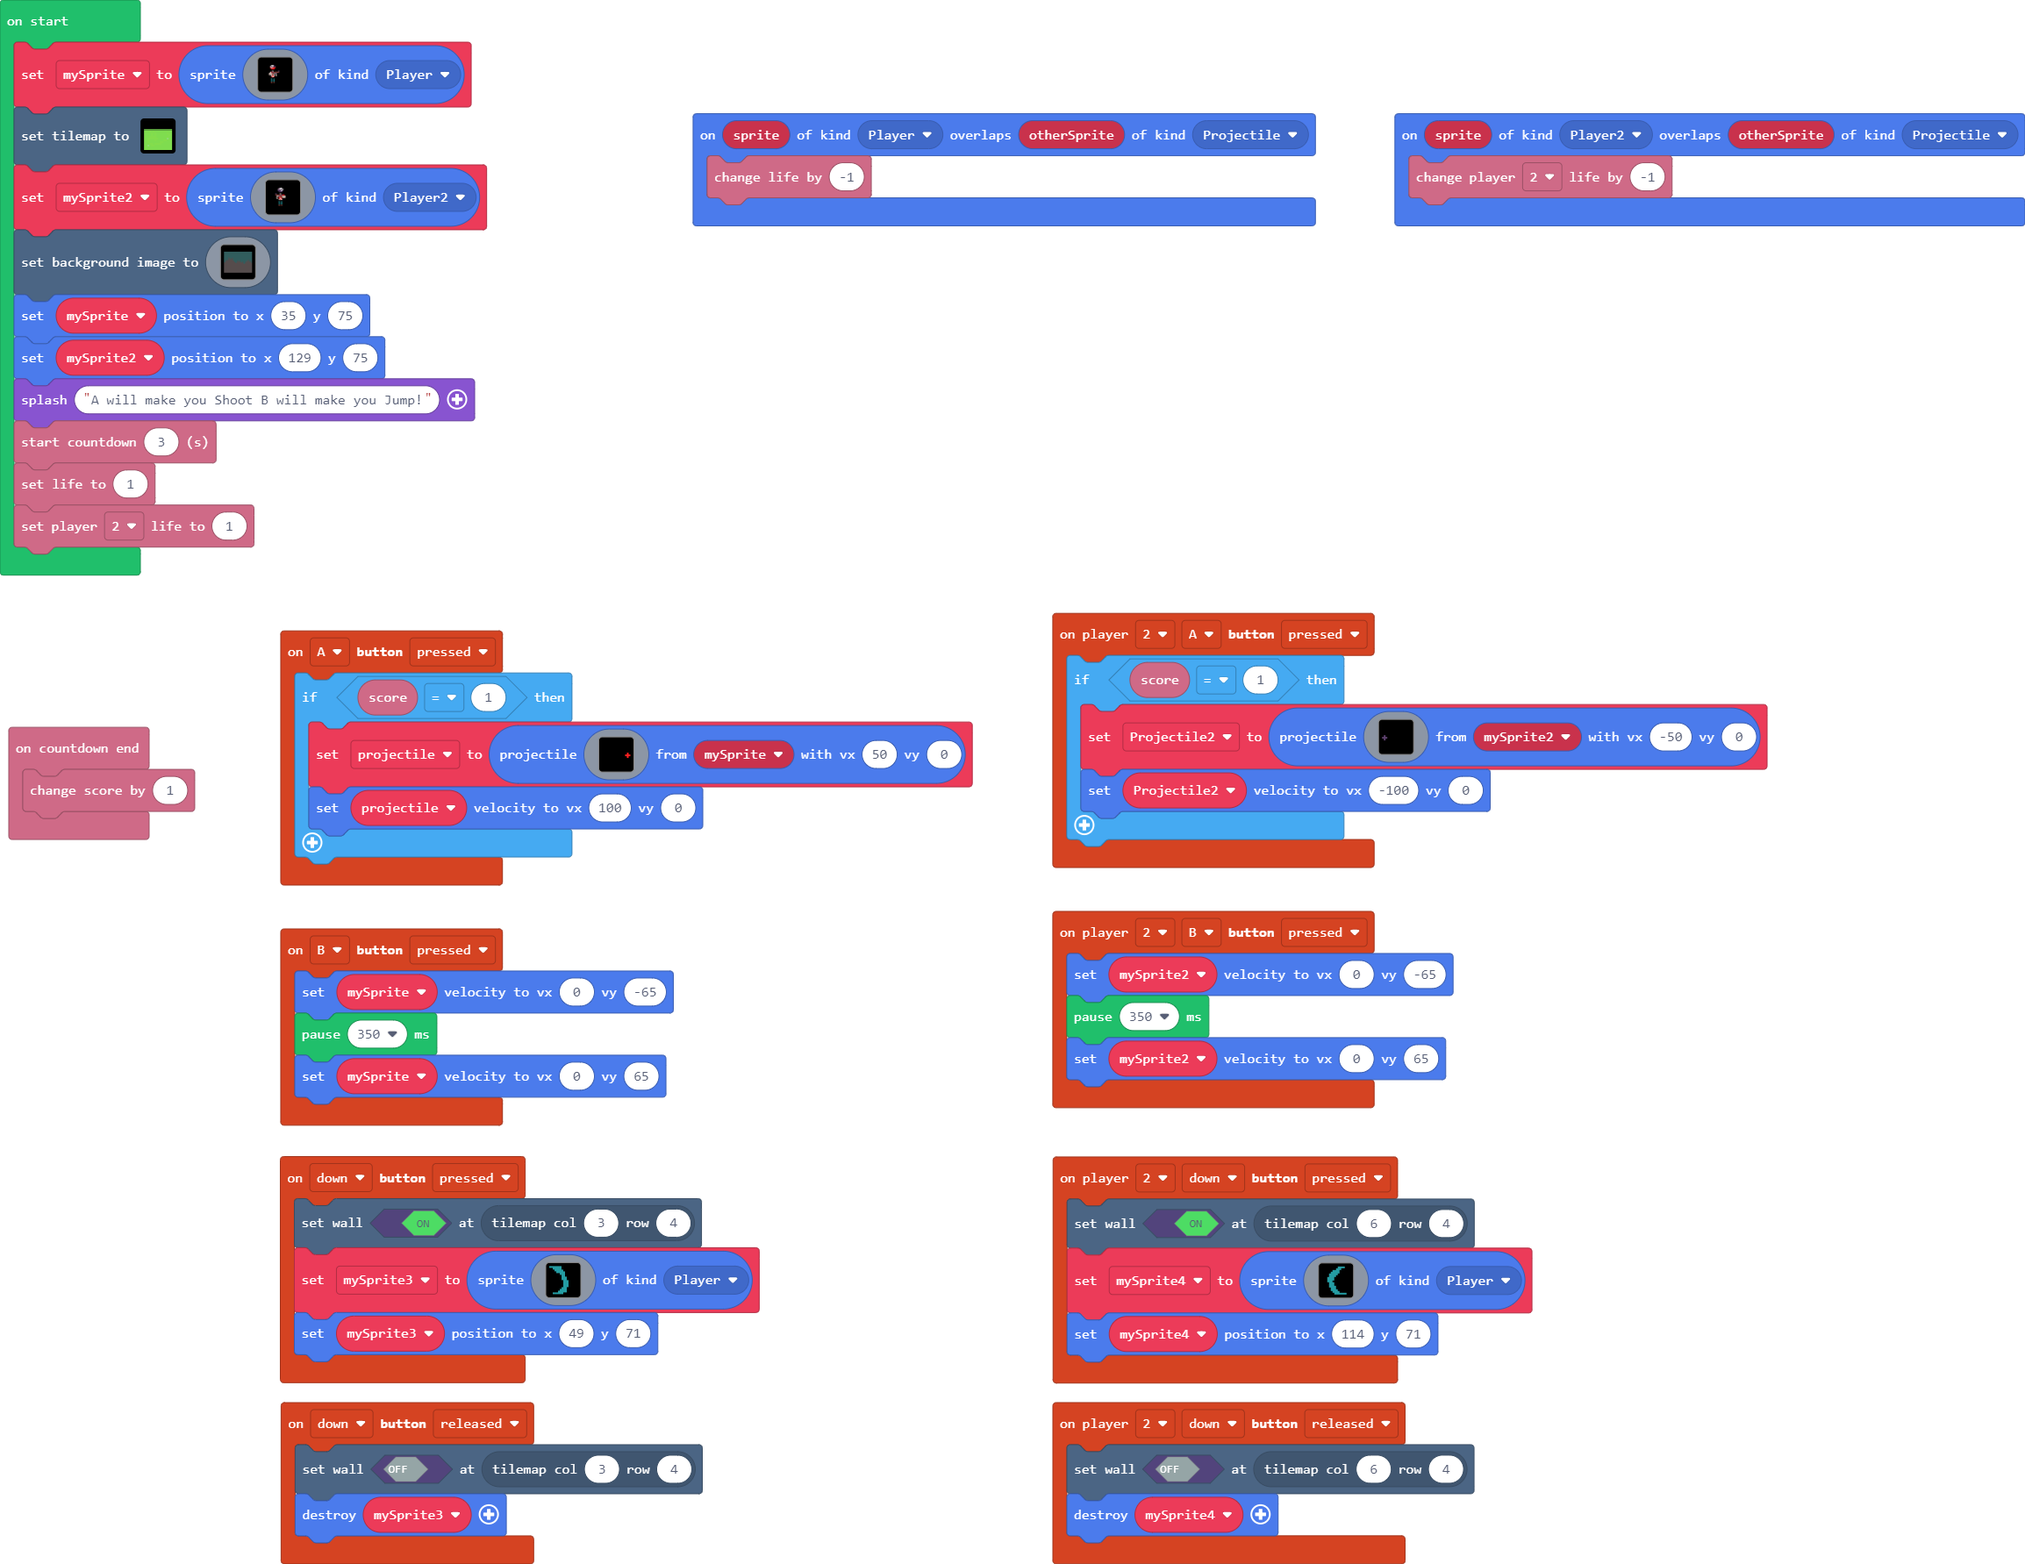
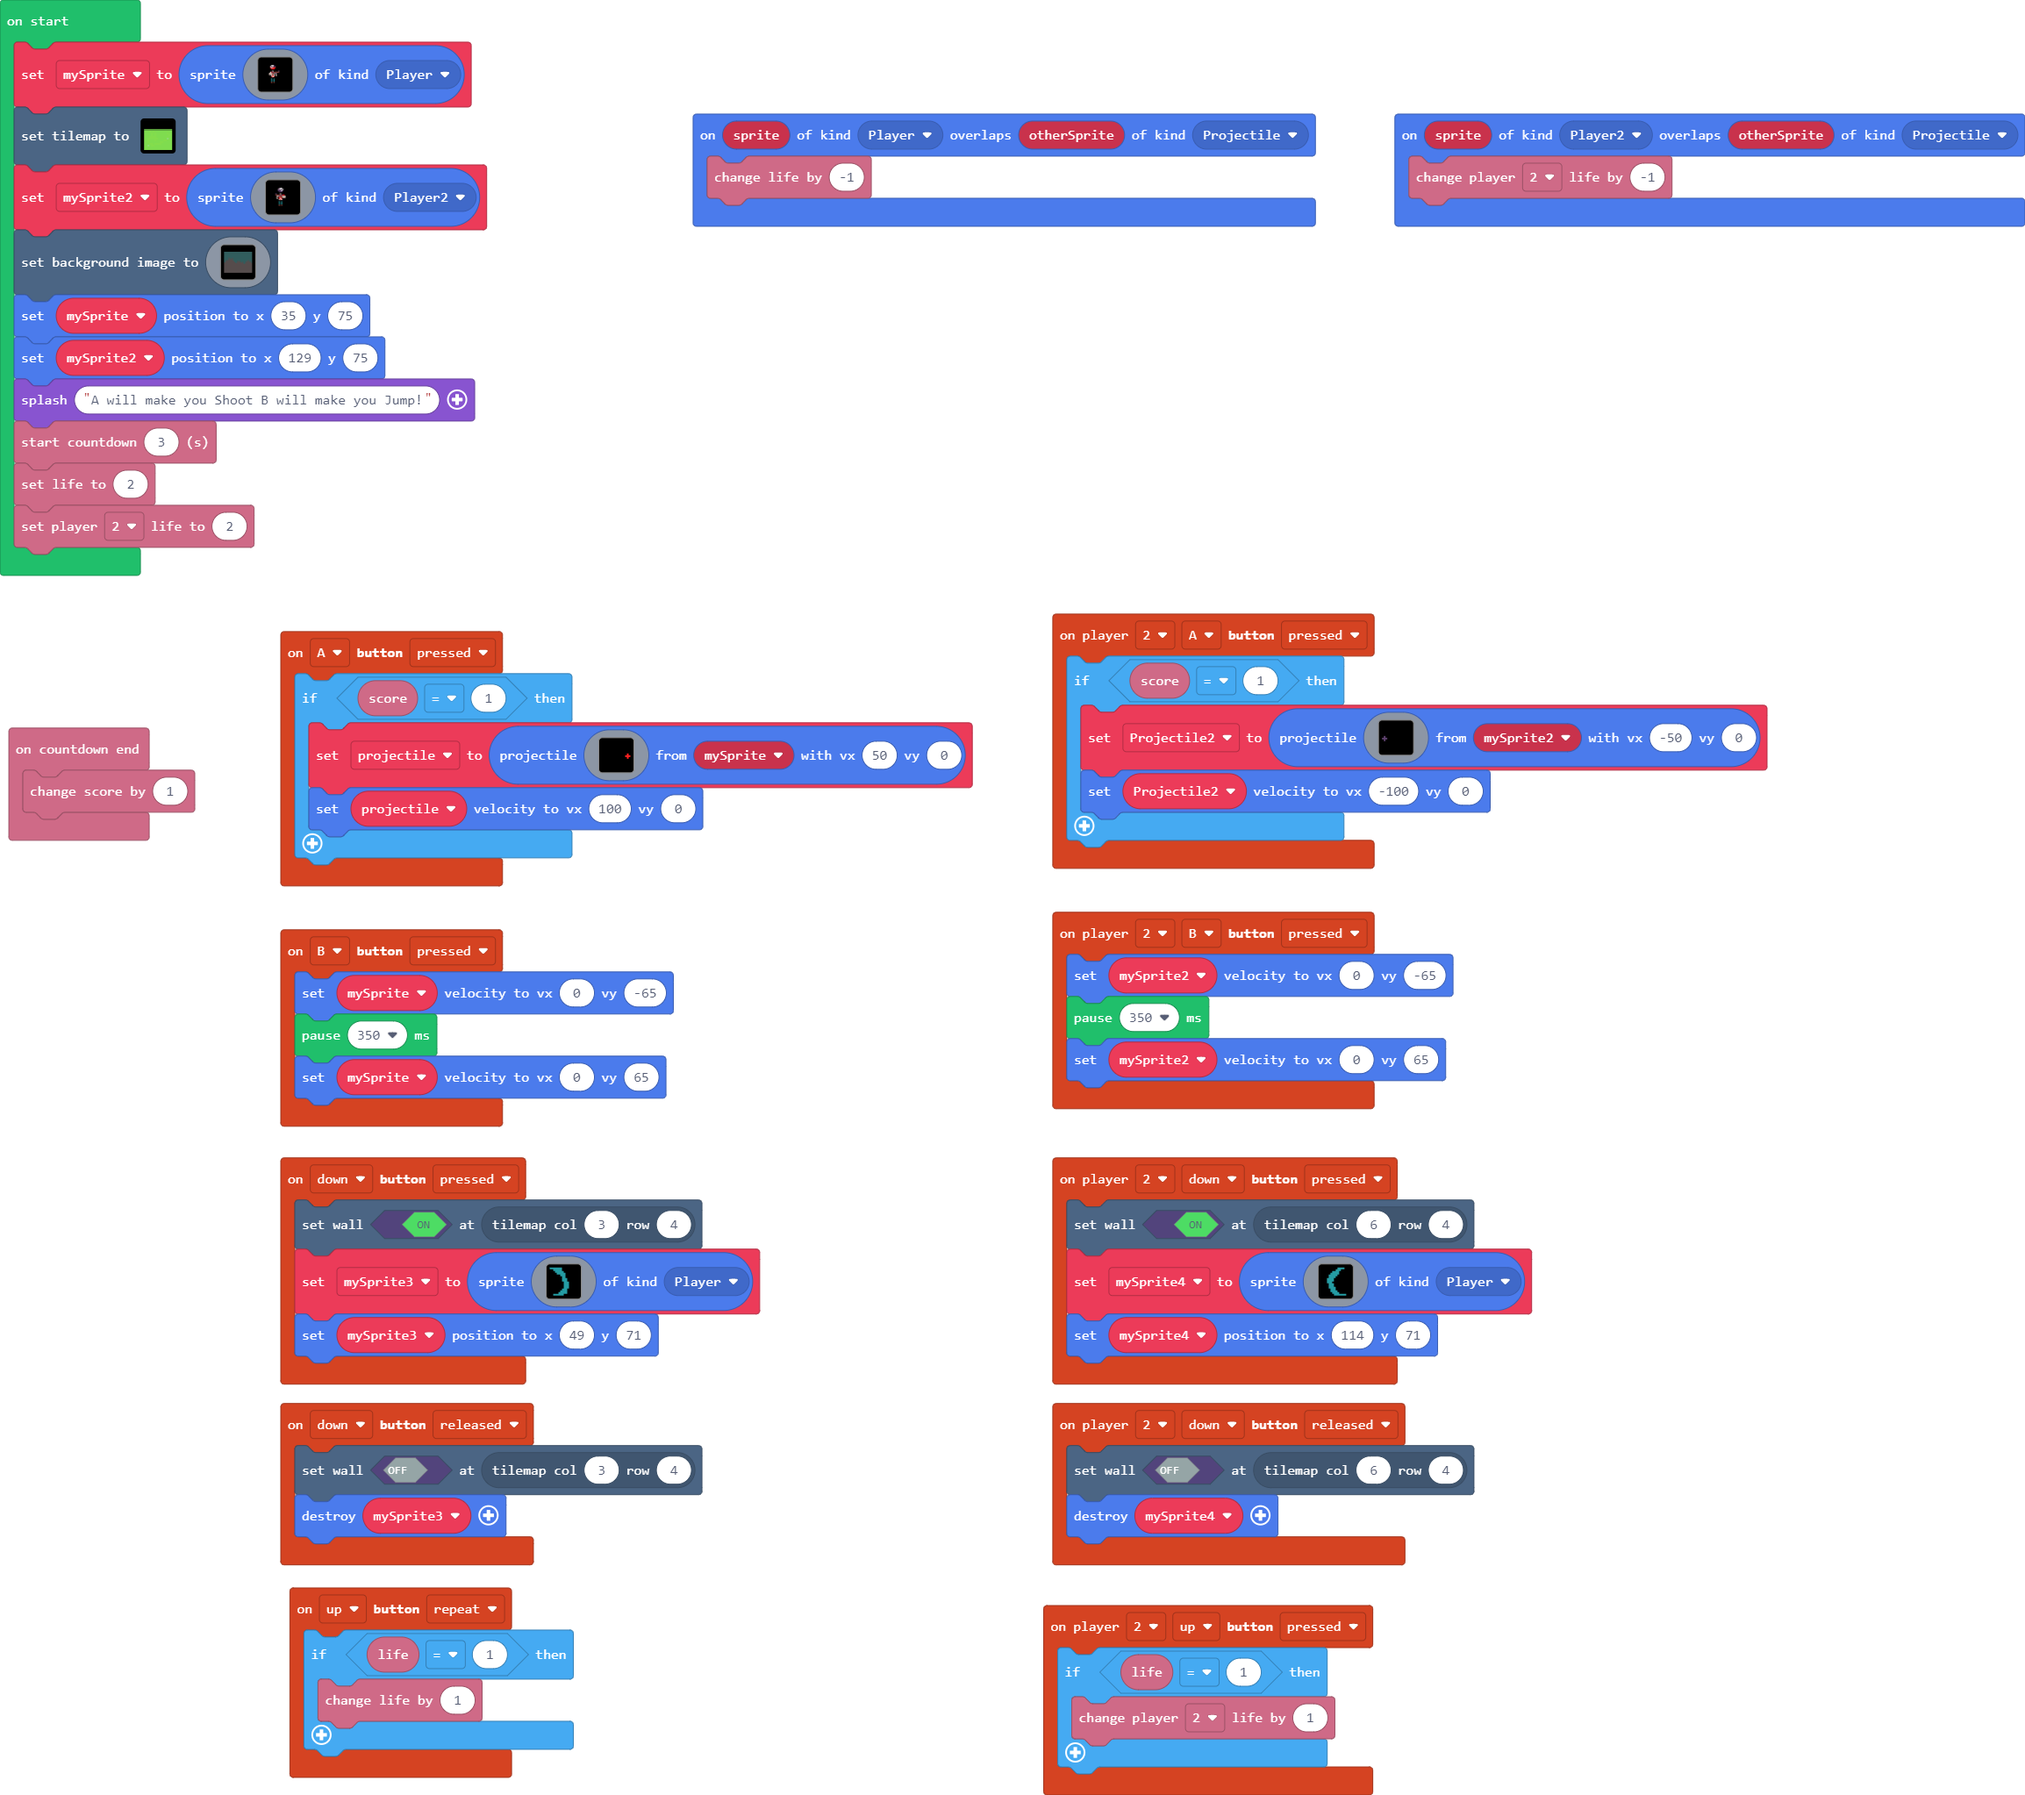
Update main.blocks, main.ts

diff --git a/main.ts b/main.ts
@@ -143,6 +143,11 @@ controller.A.onEvent(ControllerButtonEvent.Pressed, function () {
         projectile.setVelocity(100, 0)
     }
 })
+controller.player2.onButtonEvent(ControllerButton.Up, ControllerButtonEvent.Pressed, function () {
+    if (info.life() == 1) {
+        info.player2.changeLifeBy(1)
+    }
+})
 controller.player2.onButtonEvent(ControllerButton.B, ControllerButtonEvent.Pressed, function () {
     mySprite2.setVelocity(0, -65)
     pause(350)
@@ -150,6 +155,11 @@ controller.player2.onButtonEvent(ControllerButton.B, ControllerButtonEvent.Press
 })
 sprites.onOverlap(SpriteKind.Player2, SpriteKind.Projectile, function (sprite, otherSprite) {
     info.player2.changeLifeBy(-1)
+})
+controller.up.onEvent(ControllerButtonEvent.Repeated, function () {
+    if (info.life() == 1) {
+        info.changeLifeBy(1)
+    }
 })
 info.onCountdownEnd(function () {
     info.changeScoreBy(1)
@@ -367,5 +377,5 @@ mySprite.setPosition(35, 75)
 mySprite2.setPosition(129, 75)
 game.splash("A will make you Shoot B will make you Jump!")
 info.startCountdown(3)
-info.setLife(1)
-info.player2.setLife(1)
+info.setLife(2)
+info.player2.setLife(2)
